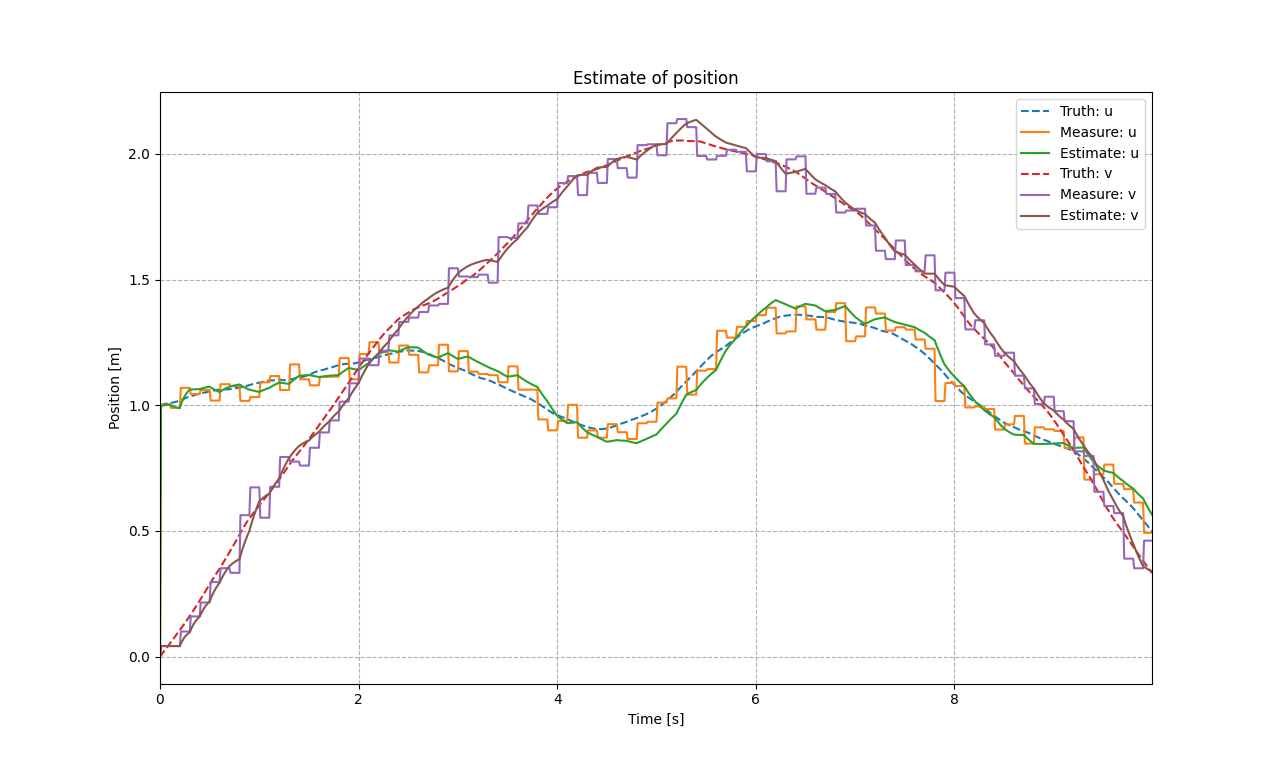
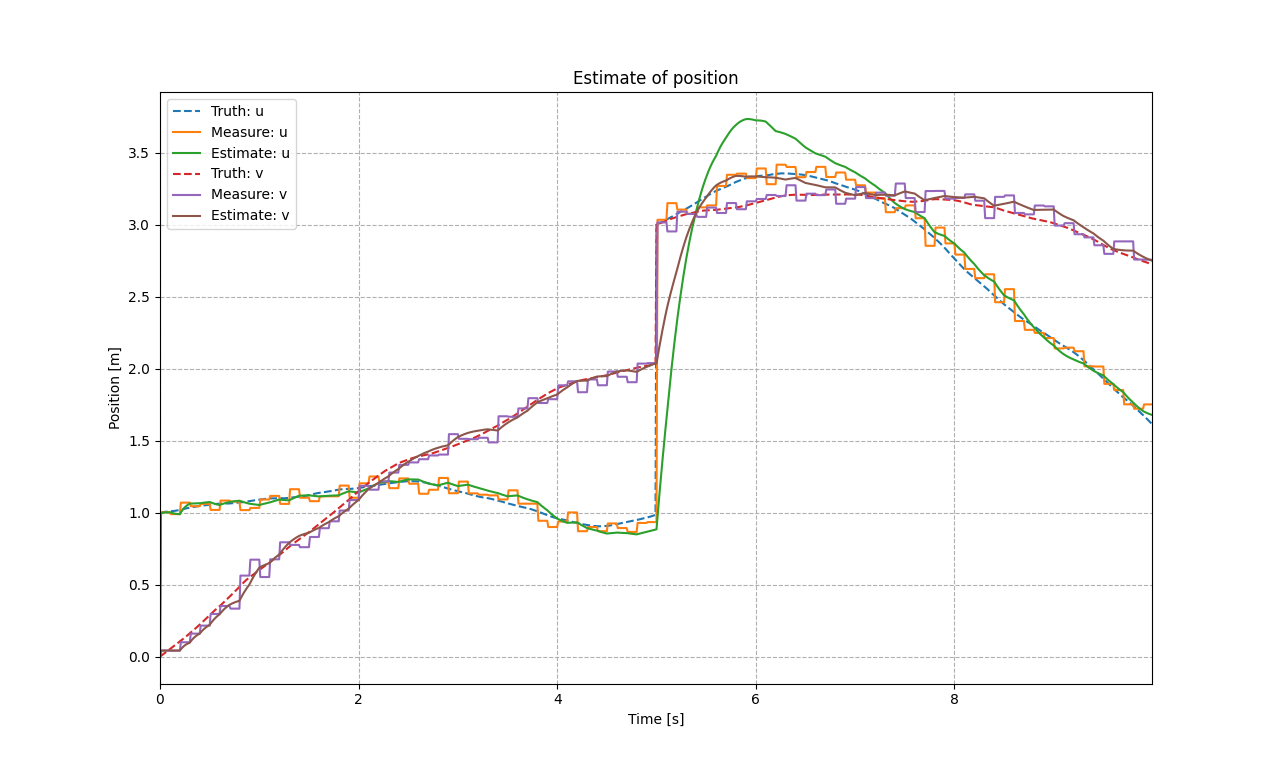
feat: add chi-square test and target switch in noise model demo

diff --git a/kalman_filter.h b/kalman_filter.h
@@ -28,19 +28,32 @@ class KalmanFilter {
                      const Eigen::MatrixXd& H,
                      const Eigen::MatrixXd& Q,
                      const Eigen::MatrixXd& R)
-            : A_(A), B_(B), H_(H), Q_(Q), R_(R),
-              l_(B_.cols()), m_(H_.rows()), n_(A_.rows())
+            : A_(A), B_(B), H_(H),
+              l_(B_.cols()), m_(H_.rows()), n_(A_.rows()),
+              Q_(Q), R_(R)
         {
-            I_.resize(n_, n_);
-            P_.resize(n_, n_);
             K_.resize(n_, m_);
+            I_.resize(n_, n_);
+
+            P_.resize(n_, n_);
+            S_.resize(m_, m_);
+
             x_pred_.resize(n_);
             x_est_.resize(n_);
             u_.resize(l_);
 
-            I_.setIdentity();
-            P_.setIdentity();
             K_.setZero();
+            I_.setIdentity();
+
+            P_.setIdentity();
+            S_.setIdentity();
+        }
+
+        void setEstimate(const Eigen::VectorXd & x_est) {
+            if (x_est.size() != x_est_.size()) {
+                throw std::length_error("Incorrect dimensions of estimated state vector");
+            }
+            x_est_ = x_est;
         }
 
         void setInput(const Eigen::VectorXd& u) {
@@ -50,15 +63,38 @@ class KalmanFilter {
             u_ = u;
         }
 
+        void setEstimateCovariance(const Eigen::MatrixXd& P) {
+            if (P.size() != P_.size()) {
+                throw std::length_error("Incorrect dimensions of estimate cov. matrix");
+            }
+            P_ = P;
+        }
+
         void setProcessCovariance(const Eigen::MatrixXd& Q) {
-            if (Q.size() != Q_.size())
-            throw std::length_error("Incorrect dimensions of process cov. matrix");
-            else
+            if (Q.size() != Q_.size()) {
+                throw std::length_error("Incorrect dimensions of process cov. matrix");
+            }
             Q_ = Q;
         }
 
-        Eigen::VectorXd& getPredict(void) { return x_pred_; };
-        Eigen::VectorXd& getEstimate(void) { return x_est_; };
+        /** @brief Estimate covariance matrix getter
+         *
+         * @returns the current estimate covariance matrix P
+         */
+        const Eigen::MatrixXd& getEstimateCovariance(void) const { return P_; }
+
+
+        /** @brief Innovation covariance matrix getter
+         *
+         * Innovation covariance matrix is calculated during correction step
+         * S = H * P * trans(H) + R.
+         *
+         * @returns the current innovation covariance matrix S
+         */
+        const Eigen::MatrixXd& getInnovationCovariance(void) const { return S_; }
+
+        const Eigen::VectorXd& getPredict(void) const { return x_pred_; };
+        const Eigen::VectorXd& getEstimate(void) const { return x_est_; };
 
         /** @brief Performs the KF prediction step
          *
@@ -68,6 +104,8 @@ class KalmanFilter {
         void predict(void) {
             x_pred_ = A_ * x_est_ + B_ * u_;
             P_ = A_ * P_ * A_.transpose() + Q_;
+            // prepare for 'update'
+            S_ = H_ * P_ * H_.transpose() + R_;
         }
 
         void predict(const Eigen::VectorXd& u) {
@@ -82,14 +120,14 @@ class KalmanFilter {
          * covariance.
          */
         void update(const Eigen::VectorXd z) {
-            K_ = P_ * H_.transpose() * (H_ * P_ * H_.transpose() + R_).inverse();
+            K_ = P_ * H_.transpose() * S_.inverse();
             x_est_ = x_pred_ + K_ * (z - H_ * x_pred_);
             P_ = (I_ - K_ * H_) * P_;
         }
 
     private:
         // Matrices for computation
-        Eigen::MatrixXd A_, B_, H_, Q_, R_;
+        Eigen::MatrixXd A_, B_, H_;
 
         size_t l_; // dimension of input vector. Can be zero for autonomous system.
         size_t m_; // dimension of output vector. Can be zero for prediction only.
@@ -97,7 +135,15 @@ class KalmanFilter {
 
         // n-size identity
         Eigen::MatrixXd I_;
-        Eigen::MatrixXd P_, K_;
+
+        // Kalman gain matrix:
+        Eigen::MatrixXd K_;     /* n x m */
+
+        // Covariance matrices:
+        Eigen::MatrixXd P_; // estimate, n x n
+        Eigen::MatrixXd Q_; // process noise, n x n
+        Eigen::MatrixXd R_; // measurement noise, m x m
+        Eigen::MatrixXd S_; // innovation, m x m
 
         // input vector
         Eigen::VectorXd u_;

diff --git a/demo/kf_acc_noise_model.cc b/demo/kf_acc_noise_model.cc
@@ -53,7 +53,7 @@ int main (int argc,char *argv[]) {
     std::default_random_engine generator;
     std::normal_distribution<double> measurement_noise(measurement_mu, measurement_sigma);
     std::normal_distribution<double> process_noise(process_mu, process_sigma);
-// Preparing KF
+    // Preparing KF
     // x = [Pu, Pv, Vu, Vv]^T
     Eigen::Matrix4d A; /* 4x4 */
     A << 1.0, 0.0, system_dt, 0.0,
@@ -67,6 +67,9 @@ int main (int argc,char *argv[]) {
     Eigen::Matrix<double, 2, 4> H; /* 2x4 */
     H << 1.0, 0.0, 0.0, 0.0,
          0.0, 1.0, 0.0, 0.0;
+
+    Eigen::Matrix4d P0;
+    P0.setIdentity();
 
     // The process and measurement covariances are sort of tunning parameters
     Eigen::Matrix4d Q; /* 4x4 */
@@ -93,6 +96,12 @@ int main (int argc,char *argv[]) {
     R << 0.01, 0.0,
          0.0,  0.01;
 
+    Eigen::Matrix<double, 4, 2> G; /* 4x2 */
+    G << 1, 0,
+         0, 1,
+         0, 0,
+         0, 0;
+
     kf::KalmanFilter filter(A, B, H, Q, R);
 
     // Initial values (unknown by KF)
@@ -107,17 +116,28 @@ int main (int argc,char *argv[]) {
     measured_pos_v[0] = 0.0;
     estimated_pos_v[0] = 0.0;
 
-
     Eigen::VectorXd z(2); /* 2x1 */
+    Eigen::VectorXd e(2); /* 2x1 */
+    double l_threshold = 20.0;
+
     // Simulation
     for (size_t i = 1; i < N; ++i) {
         time[i] = i * system_dt;
 
-        true_vel_u[i] = true_vel_u[i - 1] + process_noise(generator) * system_dt;
-        true_pos_u[i] = true_pos_u[i - 1] + true_vel_u[i] * system_dt + 0.5 * process_noise(generator) * dt_2;
+        if (i == N / 2) {
+            // switch target and set new target state
+            true_vel_u[i] = 0.3;
+            true_pos_u[i] = 3.0;
 
-        true_vel_v[i] = true_vel_v[i - 1] + process_noise(generator) * system_dt;
-        true_pos_v[i] = true_pos_v[i - 1] + true_vel_v[i] * system_dt + 0.5 * process_noise(generator) * dt_2;
+            true_vel_v[i] = 0.3;
+            true_pos_v[i] = 3.0;
+        } else {
+            true_vel_u[i] = true_vel_u[i - 1] + process_noise(generator) * system_dt;
+            true_pos_u[i] = true_pos_u[i - 1] + true_vel_u[i] * system_dt + 0.5 * process_noise(generator) * dt_2;
+
+            true_vel_v[i] = true_vel_v[i - 1] + process_noise(generator) * system_dt;
+            true_pos_v[i] = true_pos_v[i - 1] + true_vel_v[i] * system_dt + 0.5 * process_noise(generator) * dt_2;
+        }
 
         // New measurement comes once every M samples of the system
         if (i % M == 1) {
@@ -132,6 +152,19 @@ int main (int argc,char *argv[]) {
         z(1) = measured_pos_v[i];
 
         filter.predict();
+
+        /* chi-square test */
+        e = z - H * filter.getPredict();
+        double r =  e.transpose() * filter.getInnovationCovariance().inverse() * e;
+        if (r > l_threshold) {
+            printf("[Kalman Filter]: Switch target! threshold: %.3f, real: %.3f\n", l_threshold, r);
+            filter.setEstimateCovariance(P0);
+            filter.setEstimate(G * z);
+            estimated_pos_u[i] = z(0);
+            estimated_pos_v[i] = z(1);
+            continue;
+        }
+
         filter.update(z);
 
         estimated_pos_u[i] = filter.getEstimate()(0);
@@ -153,7 +186,7 @@ int main (int argc,char *argv[]) {
     plt::legend();
     plt::grid(true, {{"linestyle", "--"}});
     plt::xlim(0.0, simulation_time - system_dt);
-    plt::save("assets/kalman_filter_acc_noise_model.png");
+    plt::save("assets/kalman_filter_acc_noise_model_chi-square.png");
     plt::show();
 #endif
 

diff --git a/README.md b/README.md
@@ -35,7 +35,6 @@ $$
 \end{equation}
 $$
 
-
 The first demo is a linear model, in which the object has a constant velocity. The measured variable is `position`. The process noise is $w \sim N(0, \sigma_{p})$ and the measurement noise is $v \sim N(0, \sigma_{v})$.
 
 $$
@@ -78,12 +77,18 @@ $$
 
 The second demo simulate a pedestrian's movement on coordination `u` and `v` (or `x` and `y`). The difference with the previous case is that this case take pedestrian's potential acceleration into account. But the acceleration is included in process noise. This case realize the idea from [this site](https://blog.csdn.net/luteresa/article/details/104226258).
 
-<div align="center">
-    <img src="assets/kalman_filter_acc_noise_model.png" alt="Kalman Filter: Linear model with acceleration noise, HangX-Ma" width=600 />
-    <br>
-    <font size="2" color="#999"><u>Kalman Filter: Linear model with acceleration noise, HangX-Ma</u></font>
-    <br></br>
-</div>
+> A target switch situation is included in this case as well. _**Chi-square test**_ is used to deal with it.
+
+<table>
+<tr>
+    <td><img src="assets/kalman_filter_acc_noise_model.png" alt="Kalman Filter: Linear model with Acc noise, HangX-Ma" width=600 /></td>
+    <td><img src="assets/kalman_filter_acc_noise_model_chi-square.png" alt="Kalman Filter: Linear model with Acc noise and chi-square test, HangX-Ma" width=600 /></td>
+</tr>
+<tr>
+    <td align="center"><font size="2" color="#999"><u>Kalman Filter: Linear model with acceleration noise, HangX-Ma</u></font></td>
+    <td align="center"><font size="2" color="#999"><u>Kalman Filter: Linear model with Acc noise and chi-square test, HangX-Ma</u></font></td>
+</tr>
+</table>
 
 ## License
 
